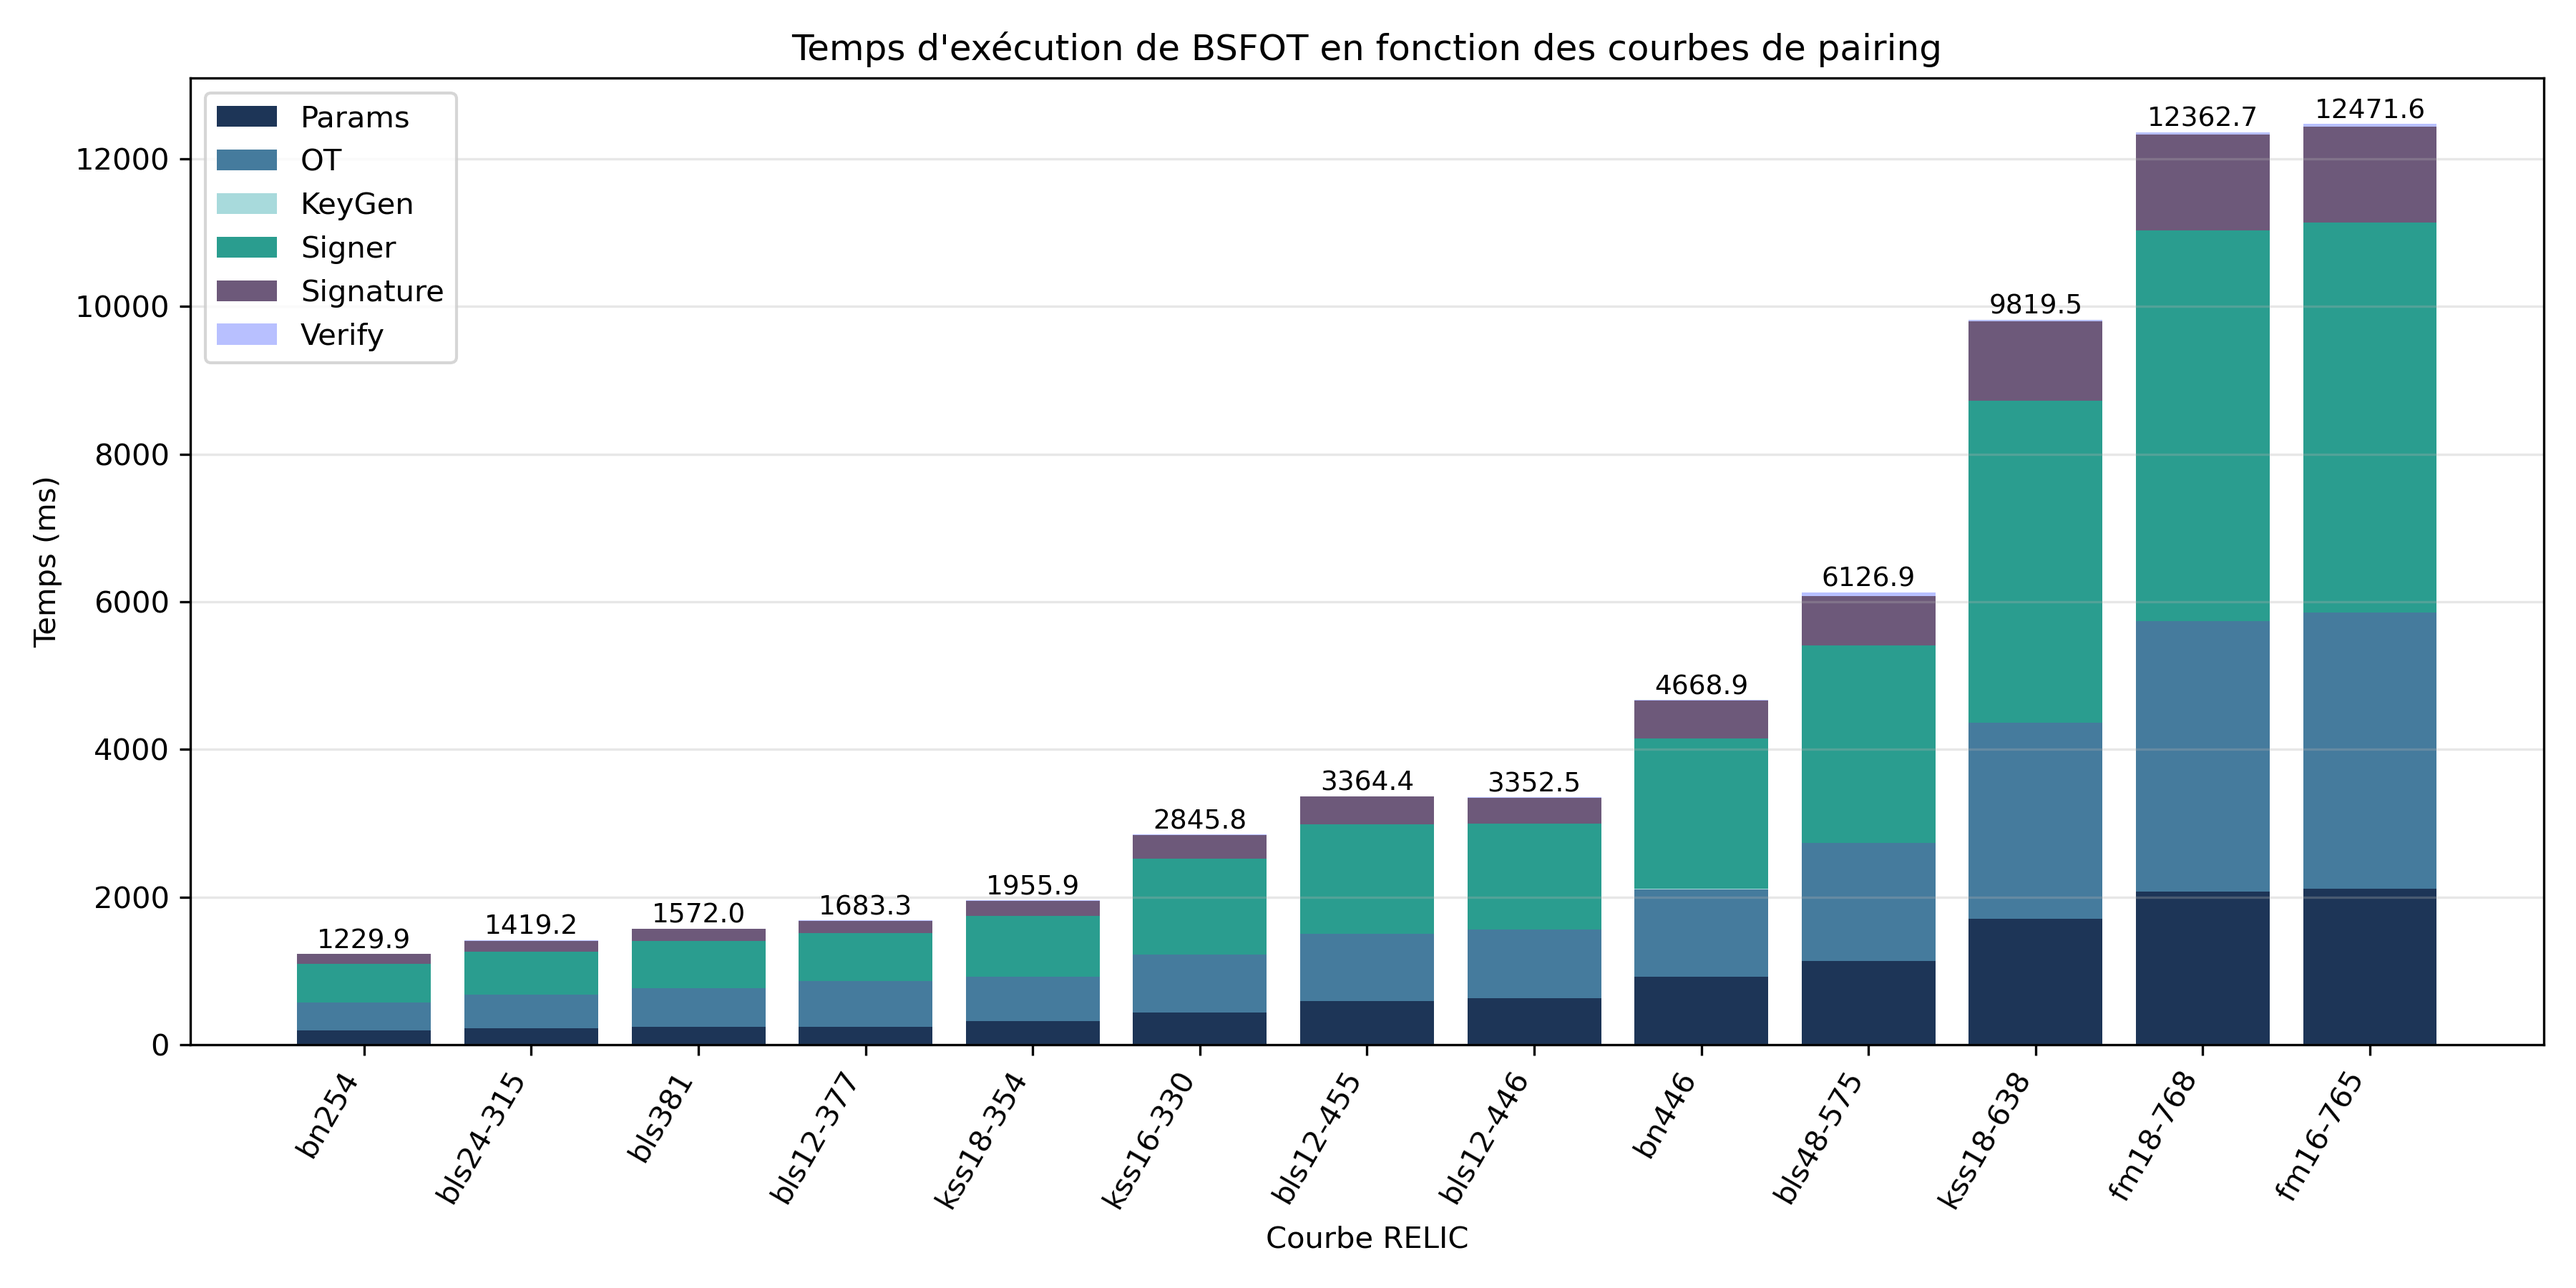
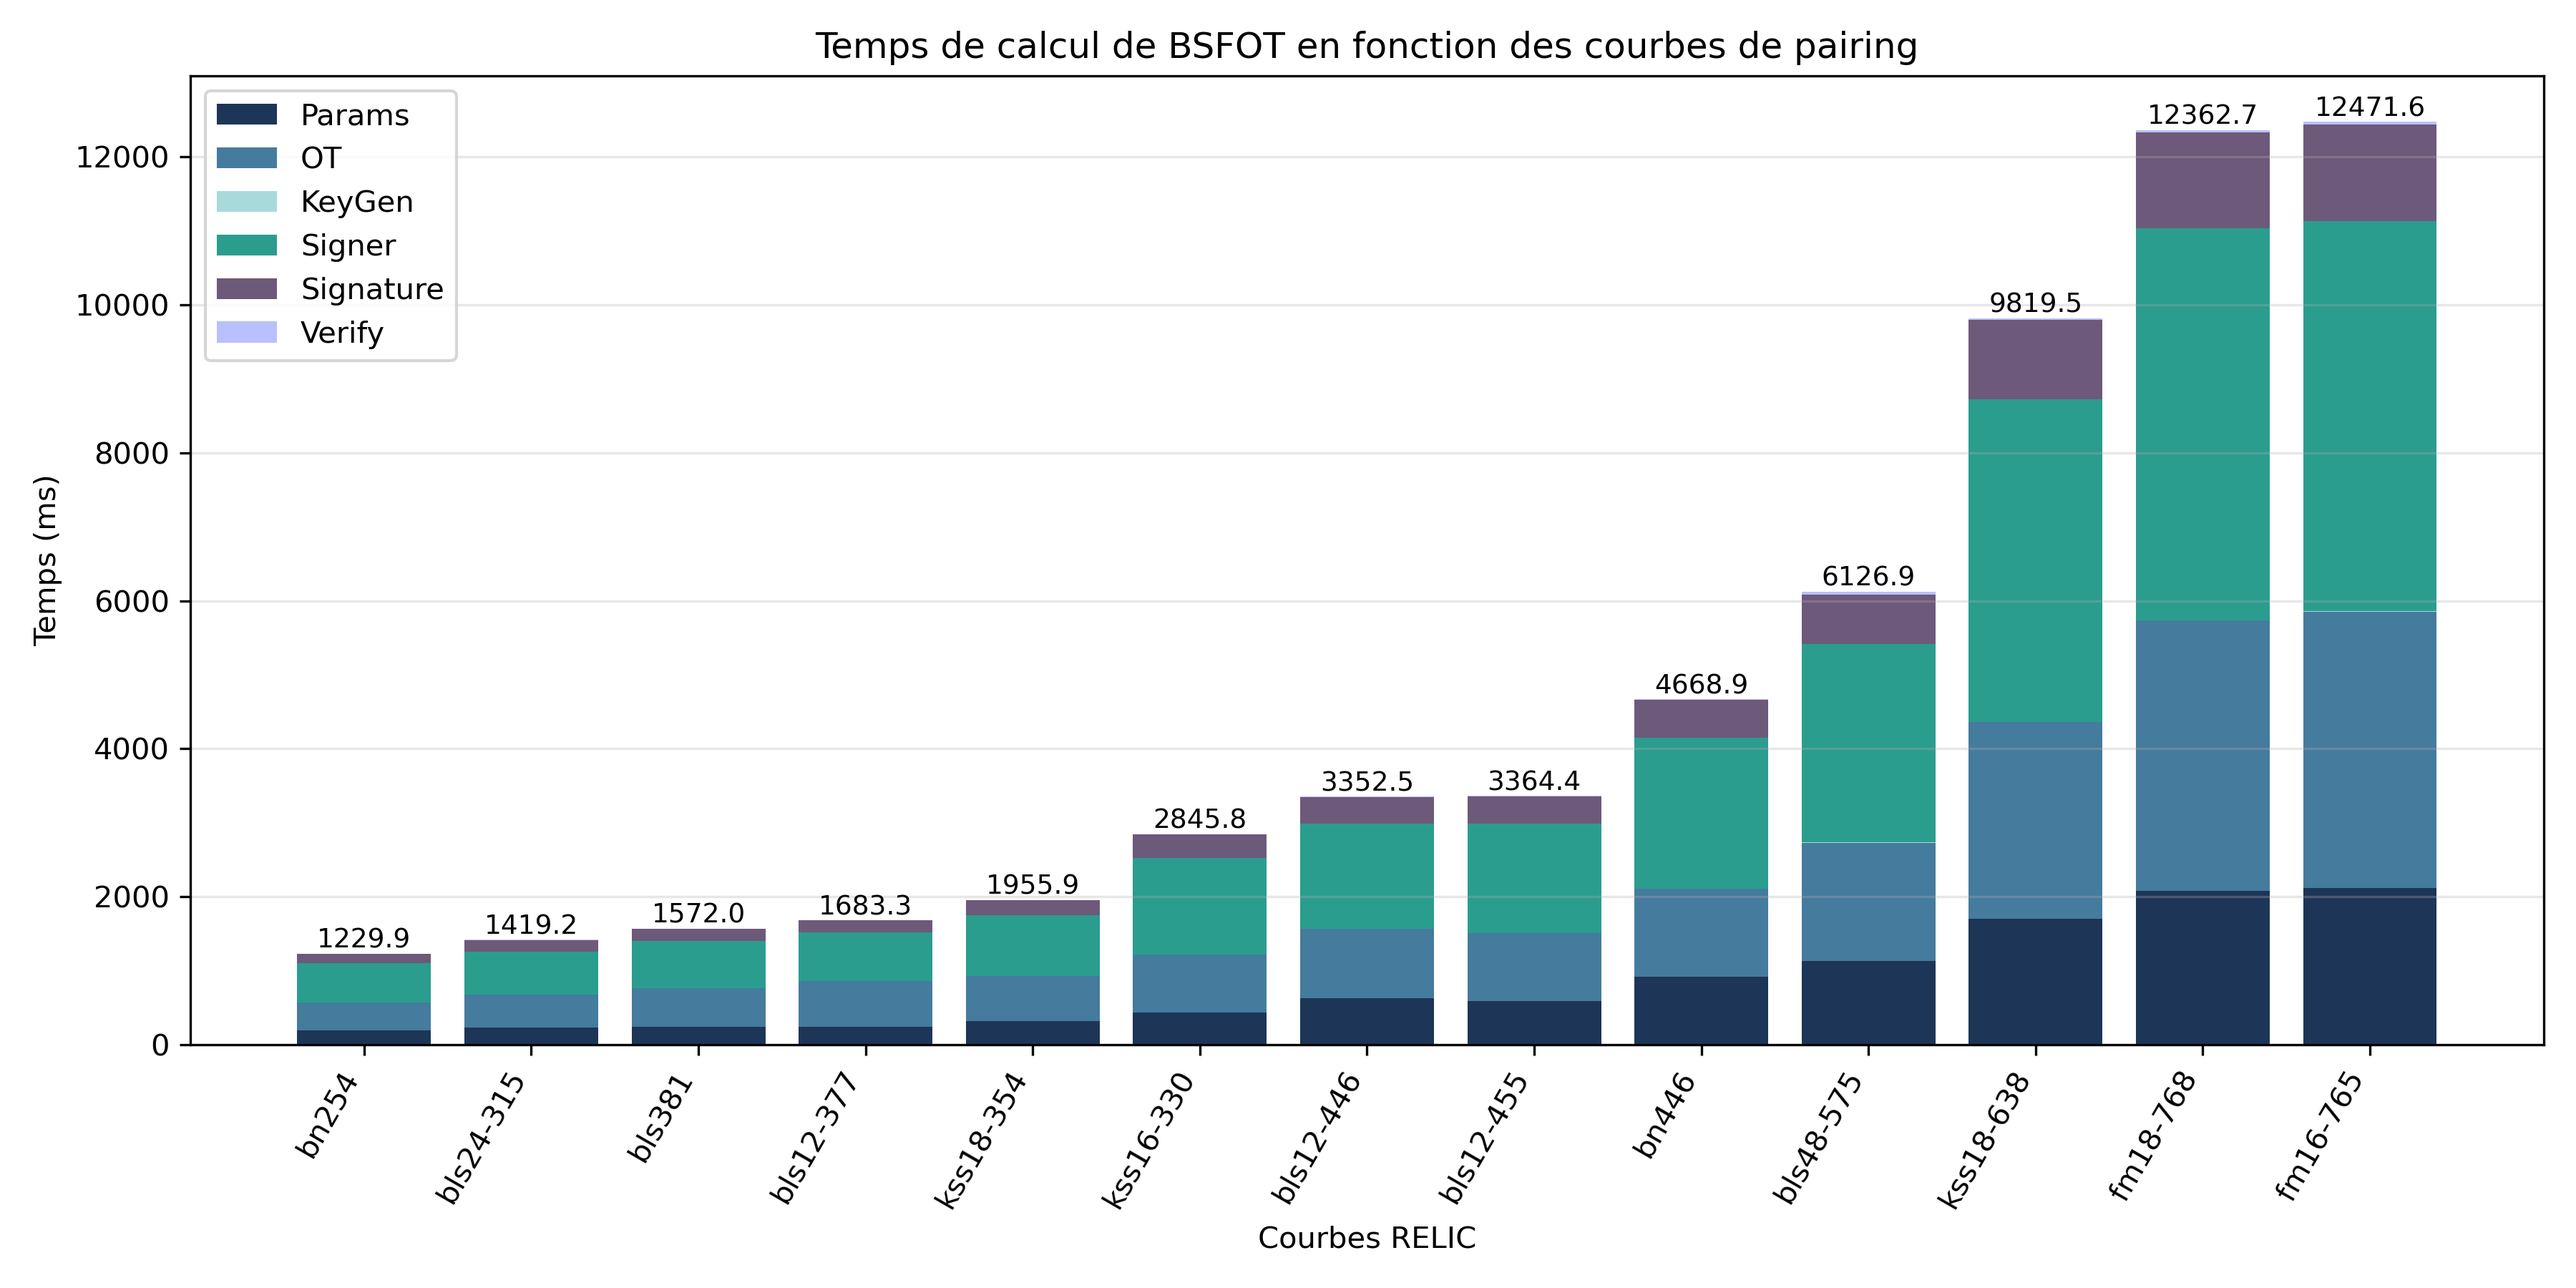
fix python parsing

diff --git a/bsfot/display.py b/bsfot/display.py
@@ -62,11 +62,11 @@ def load_results():
 
 def plot_breakdown(results):
 
-    #trie croissant totaux
+    # Trie les courbes par temps de calcul croissant
     results = dict(
         sorted(
             results.items(),
-            key=lambda x: x[1].get("Total", float("inf"))
+            key=lambda x: x[1].get("Crypto", float("inf"))
         )
     )
 
@@ -105,28 +105,37 @@ def plot_breakdown(results):
             for b, v in zip(bottom, values)
         ]
 
-    # Affichage du temps total au-dessus de chaque barre
-    for i, total in enumerate(bottom):
+    # Affichage du temps de calcul total au-dessus des barres
+    for i, curve in enumerate(curves):
+
+        crypto_time = results[curve].get("Crypto", 0)
+
         plt.text(
             i,
-            total,
-            f"{total:.1f}",
+            crypto_time,
+            f"{crypto_time:.1f}",
             ha="center",
             va="bottom",
             fontsize=9
         )
 
     plt.ylabel("Temps (ms)")
-    plt.xlabel("Courbe RELIC")
-    plt.title("Temps d'exécution de BSFOT en fonction des courbes de pairing")
+    plt.xlabel("Courbes RELIC")
+    plt.title(
+        "Temps de calcul de BSFOT en fonction des courbes de pairing"
+    )
 
     plt.legend()
+
     plt.grid(
         axis="y",
         alpha=0.3
     )
 
-    plt.xticks(rotation=60, ha="right")
+    plt.xticks(
+        rotation=60,
+        ha="right"
+    )
 
     plt.tight_layout()
 
@@ -154,7 +163,7 @@ def main():
     plot_breakdown(results)
 
     print("Graphique généré :")
-    print(" - results/images/breakdown.png")
+    print(" - results/images/benchmark.png")
 
 
 if __name__ == "__main__":
